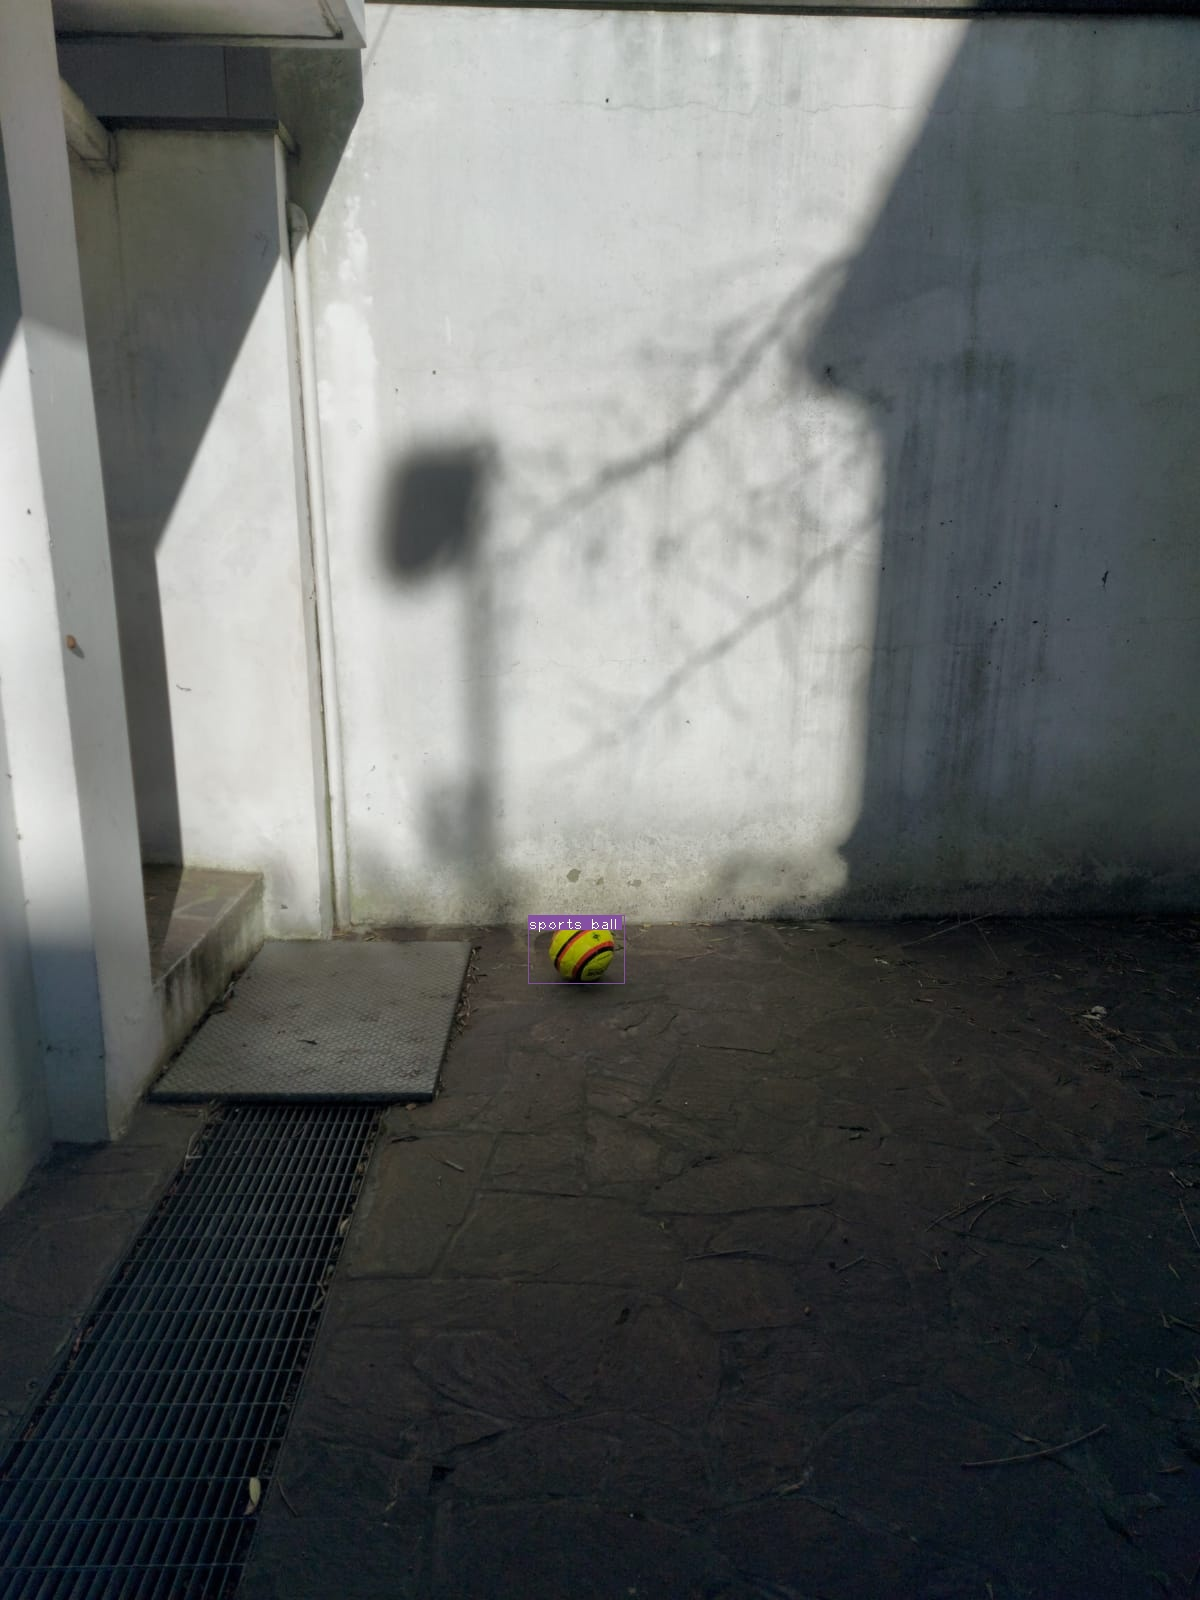
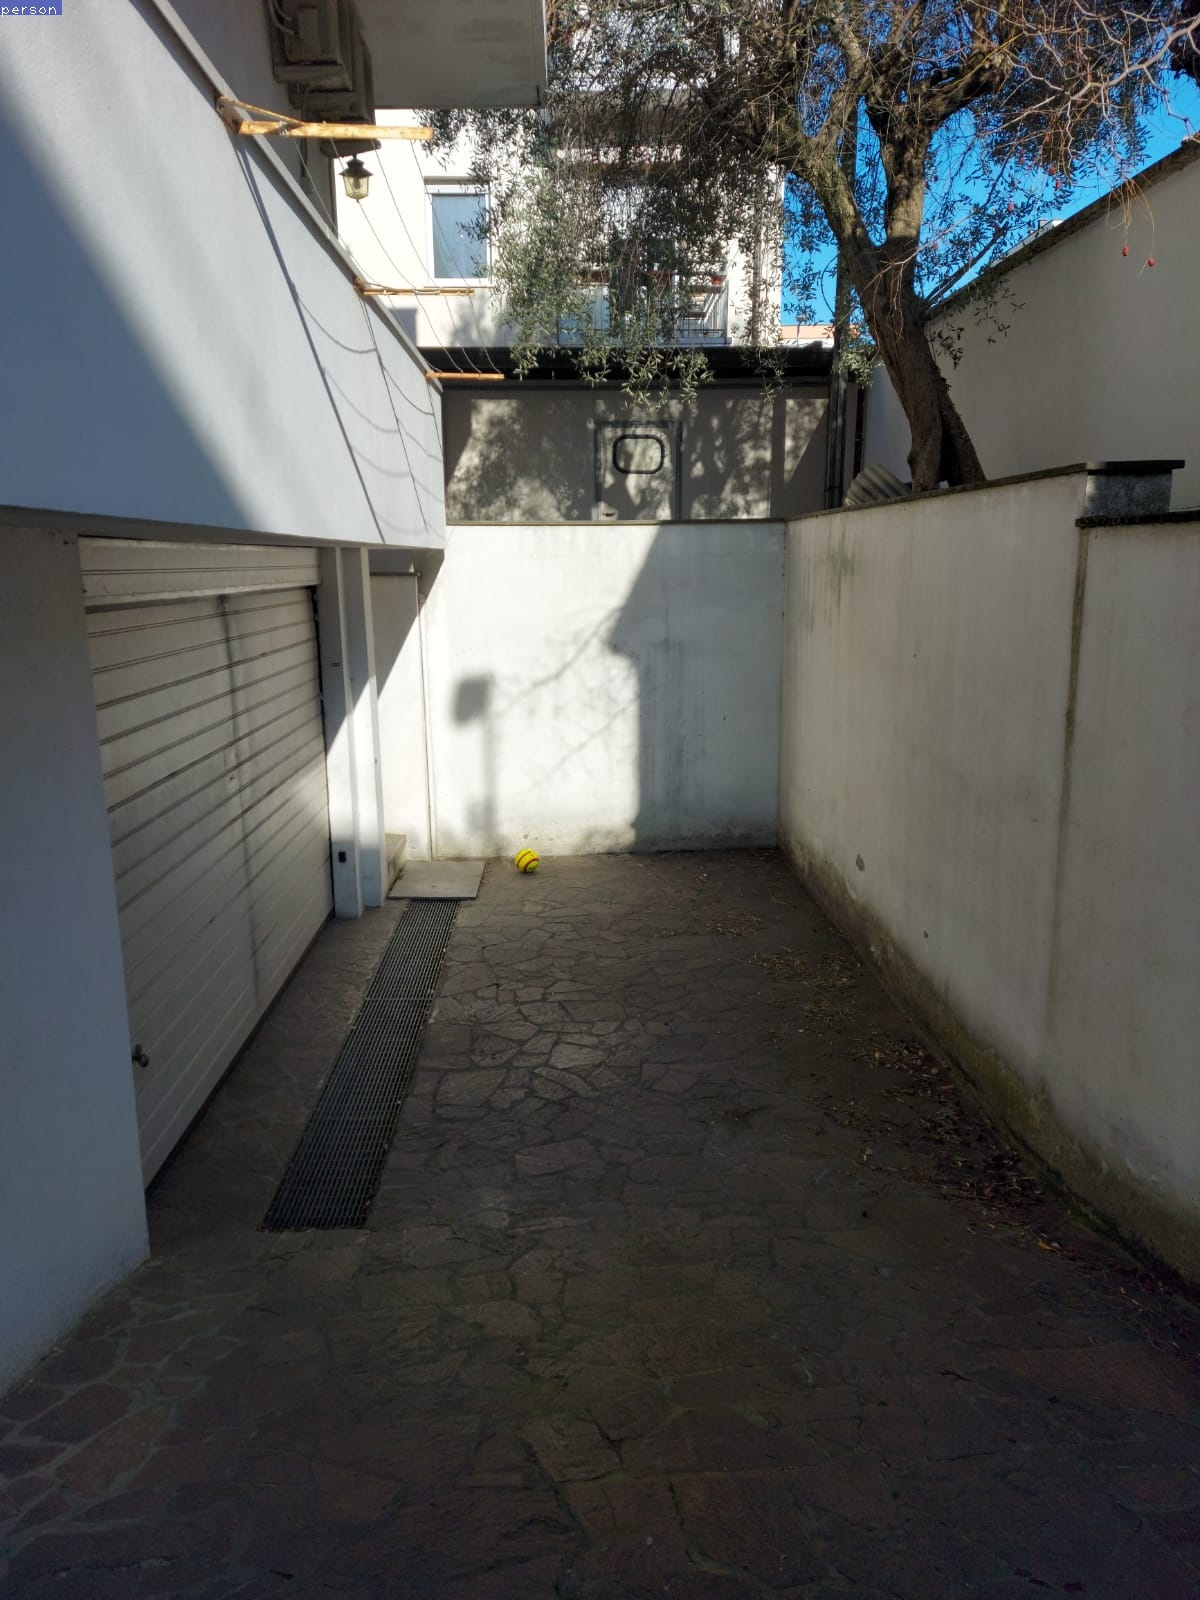
Caricate foto prova

diff --git a/src/detector.py b/src/detector.py
@@ -17,7 +17,7 @@ import random
 
 def arg_parse():
     parser = argparse.ArgumentParser(description="Bello")
-    parser.add_argument("--i", dest="image", help="Path to image to detect", default="resources/coperta.jpeg", type=str)
+    parser.add_argument("--i", dest="image", help="Path to image to detect", default="resources/lontana.jpeg", type=str)
     parser.add_argument("--dst", dest="detections", help="Folder to store the detections", default="detections", type=str)
     parser.add_argument("--bs", dest = "bs", help = "Batch size", default = 1)
     parser.add_argument("--confidence", dest = "confidence", help = "Object Confidence to filter predictions", default = 0.5)
